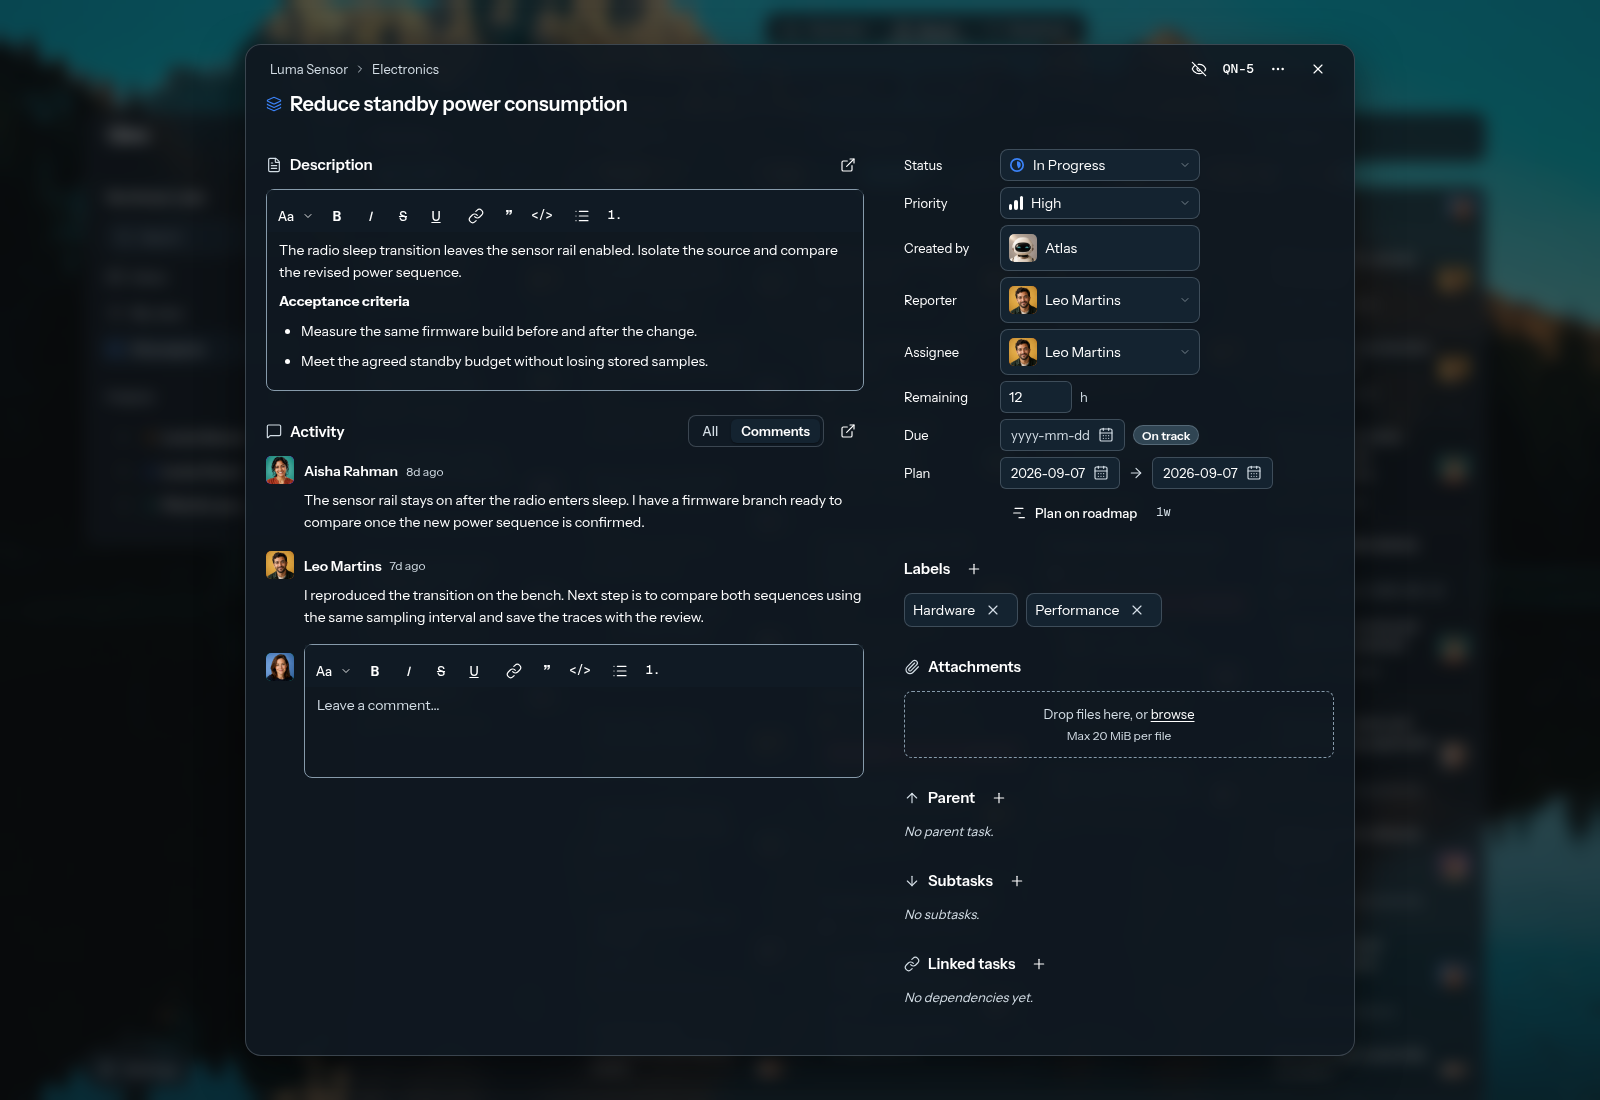
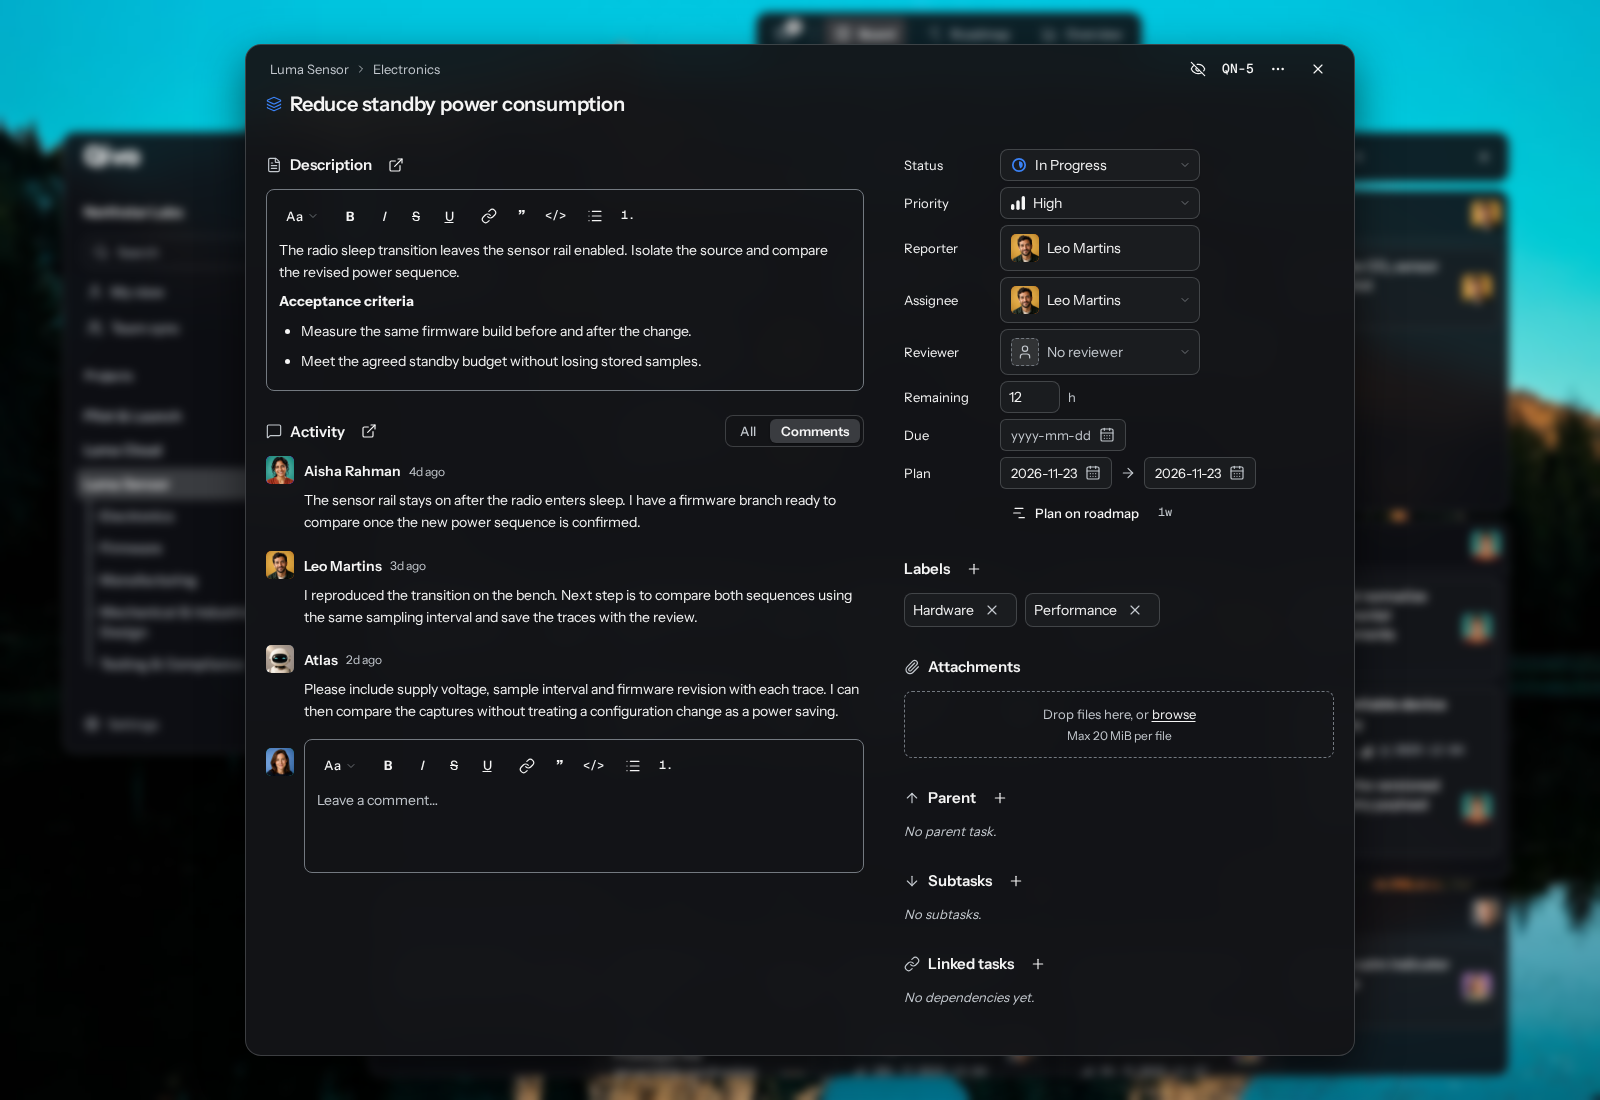
chore(website): retake the homepage screenshots from the current app
The homepage pictures showed an older app. The board and roadmap sidebars
still had an All projects row, the view switch had the old order, and the
task window still had a Created by row. All three images are now captures
of the current app in the dark theme with the landscape photo behind its
translucent panels, at the same sizes and as lossless WebP.

The board shows Luma Sensor in sub-project swimlanes with Delayed and
Slipping warnings. The roadmap shows Luma Cloud with dependencies, due-date
marks and milestones, and its Team utilization panel lists the five people
who own Luma Cloud tasks. The task window shows "Reduce standby power
consumption" with a discussion that includes Atlas.

Team utilization now has five rows instead of eight, so its crop is wider
and shorter to frame that panel alone. The task crop shows more of the
window so that Atlas's comment is in view. The capacity and task alt texts
now say what the pictures show.

diff --git a/website/index.html b/website/index.html
@@ -116,8 +116,8 @@ if (location.hash.startsWith('#/') || location.hash === '#signup') location.repl
 </div>
 <figure>
 <div class="media media-capacity">
-<img src="/marketing/roadmap.webp" width="1556" height="1286" alt="Qivo’s weekly team utilization shows each person’s workload as a share of their 32 hours a week, near-full weeks for Daniel and Leo, and task hours for Atlas the agent." loading="lazy">
-<a class="enlarge" href="/marketing/roadmap.webp" data-enlarge data-alt="Qivo’s weekly team utilization shows each person’s workload as a share of their 32 hours a week, near-full weeks for Daniel and Leo, and task hours for Atlas the agent." data-title="Plan against real capacity" aria-label="View full image: Plan against real capacity">
+<img src="/marketing/roadmap.webp" width="1556" height="1286" alt="Qivo’s weekly team utilization shows each person’s workload as a share of their 32 hours a week, a near-full week for Daniel, and task hours for Atlas the agent." loading="lazy">
+<a class="enlarge" href="/marketing/roadmap.webp" data-enlarge data-alt="Qivo’s weekly team utilization shows each person’s workload as a share of their 32 hours a week, a near-full week for Daniel, and task hours for Atlas the agent." data-title="Plan against real capacity" aria-label="View full image: Plan against real capacity">
 <svg width="14" height="14" viewBox="0 0 24 24" fill="none" stroke="currentColor" stroke-width="1.6" stroke-linecap="round" stroke-linejoin="round" aria-hidden="true">
 <path d="M8 3H3v5M16 3h5v5M3 16v5h5M21 16v5h-5"/>
 </svg>
@@ -138,8 +138,8 @@ if (location.hash.startsWith('#/') || location.hash === '#signup') location.repl
 </div>
 <figure>
 <div class="media media-task">
-<img src="/marketing/task.webp" width="1600" height="1100" alt="A Qivo task created by Atlas the agent, assigned to Leo, with an editable description, acceptance criteria, discussion, dates and attachments." loading="lazy">
-<a class="enlarge" href="/marketing/task.webp" data-enlarge data-alt="A Qivo task created by Atlas the agent, assigned to Leo, with an editable description, acceptance criteria, discussion, dates and attachments." data-title="People and agents, with context" aria-label="View full image: People and agents, with context">
+<img src="/marketing/task.webp" width="1600" height="1100" alt="A Qivo task assigned to Leo, with an editable description, acceptance criteria, a discussion that includes Atlas the agent, dates and attachments." loading="lazy">
+<a class="enlarge" href="/marketing/task.webp" data-enlarge data-alt="A Qivo task assigned to Leo, with an editable description, acceptance criteria, a discussion that includes Atlas the agent, dates and attachments." data-title="People and agents, with context" aria-label="View full image: People and agents, with context">
 <svg width="14" height="14" viewBox="0 0 24 24" fill="none" stroke="currentColor" stroke-width="1.6" stroke-linecap="round" stroke-linejoin="round" aria-hidden="true">
 <path d="M8 3H3v5M16 3h5v5M3 16v5h5M21 16v5h-5"/>
 </svg>
